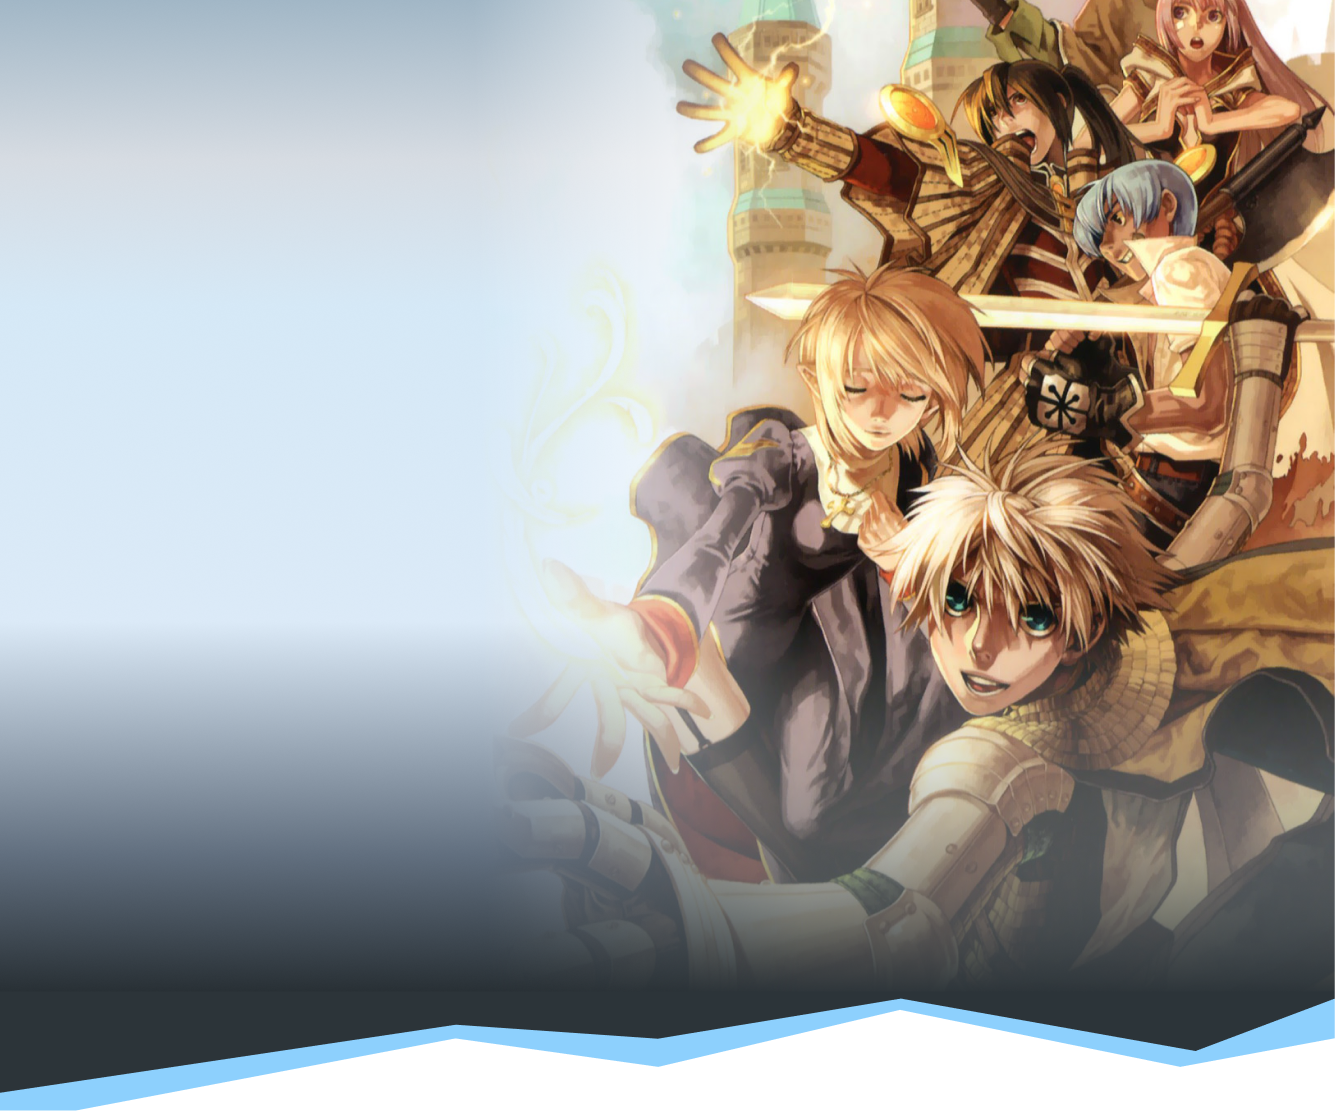
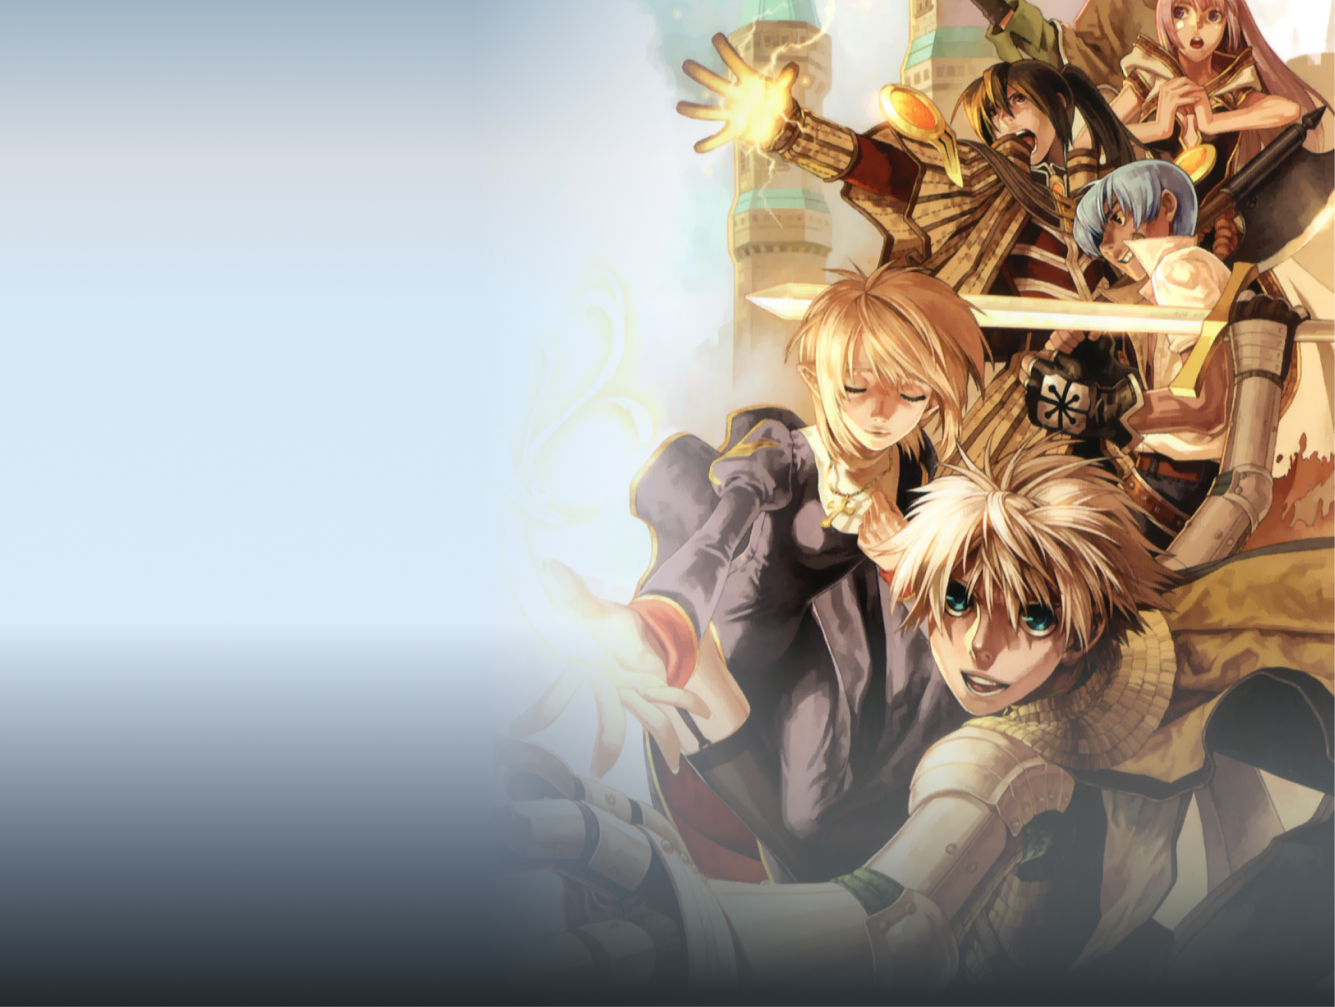
Add files via upload
arrumando imagem

diff --git a/css/landing.css b/css/landing.css
@@ -1,14 +1,15 @@
 .landing {
     color: var(--texto);
-    background: url(img/fundo.png) no-repeat center fixed;
-    -webkit-background-size: cover;
-    -moz-background-size: cover;
-    background-size: cover;
-    /* background-size: 100%; */
-    height: 100vh;
-    width: auto;
+    background-image: url(/img/Desktop.png);
+    background-position: center center;
+    background-repeat: no-repeat;
+    background-size: 100% 100%;
+    height: 100svh;
+    width: 100%;
     overflow: auto;
 }
+
+
 
 /* Nav bar */
 .landing__nav {

diff --git a/style.css b/style.css
@@ -7,7 +7,7 @@
 
 /* Arquivos de estilo */
 
-@import url(css/landing.css);
+@import url(/css/landing.css);
 
 :root {
 
